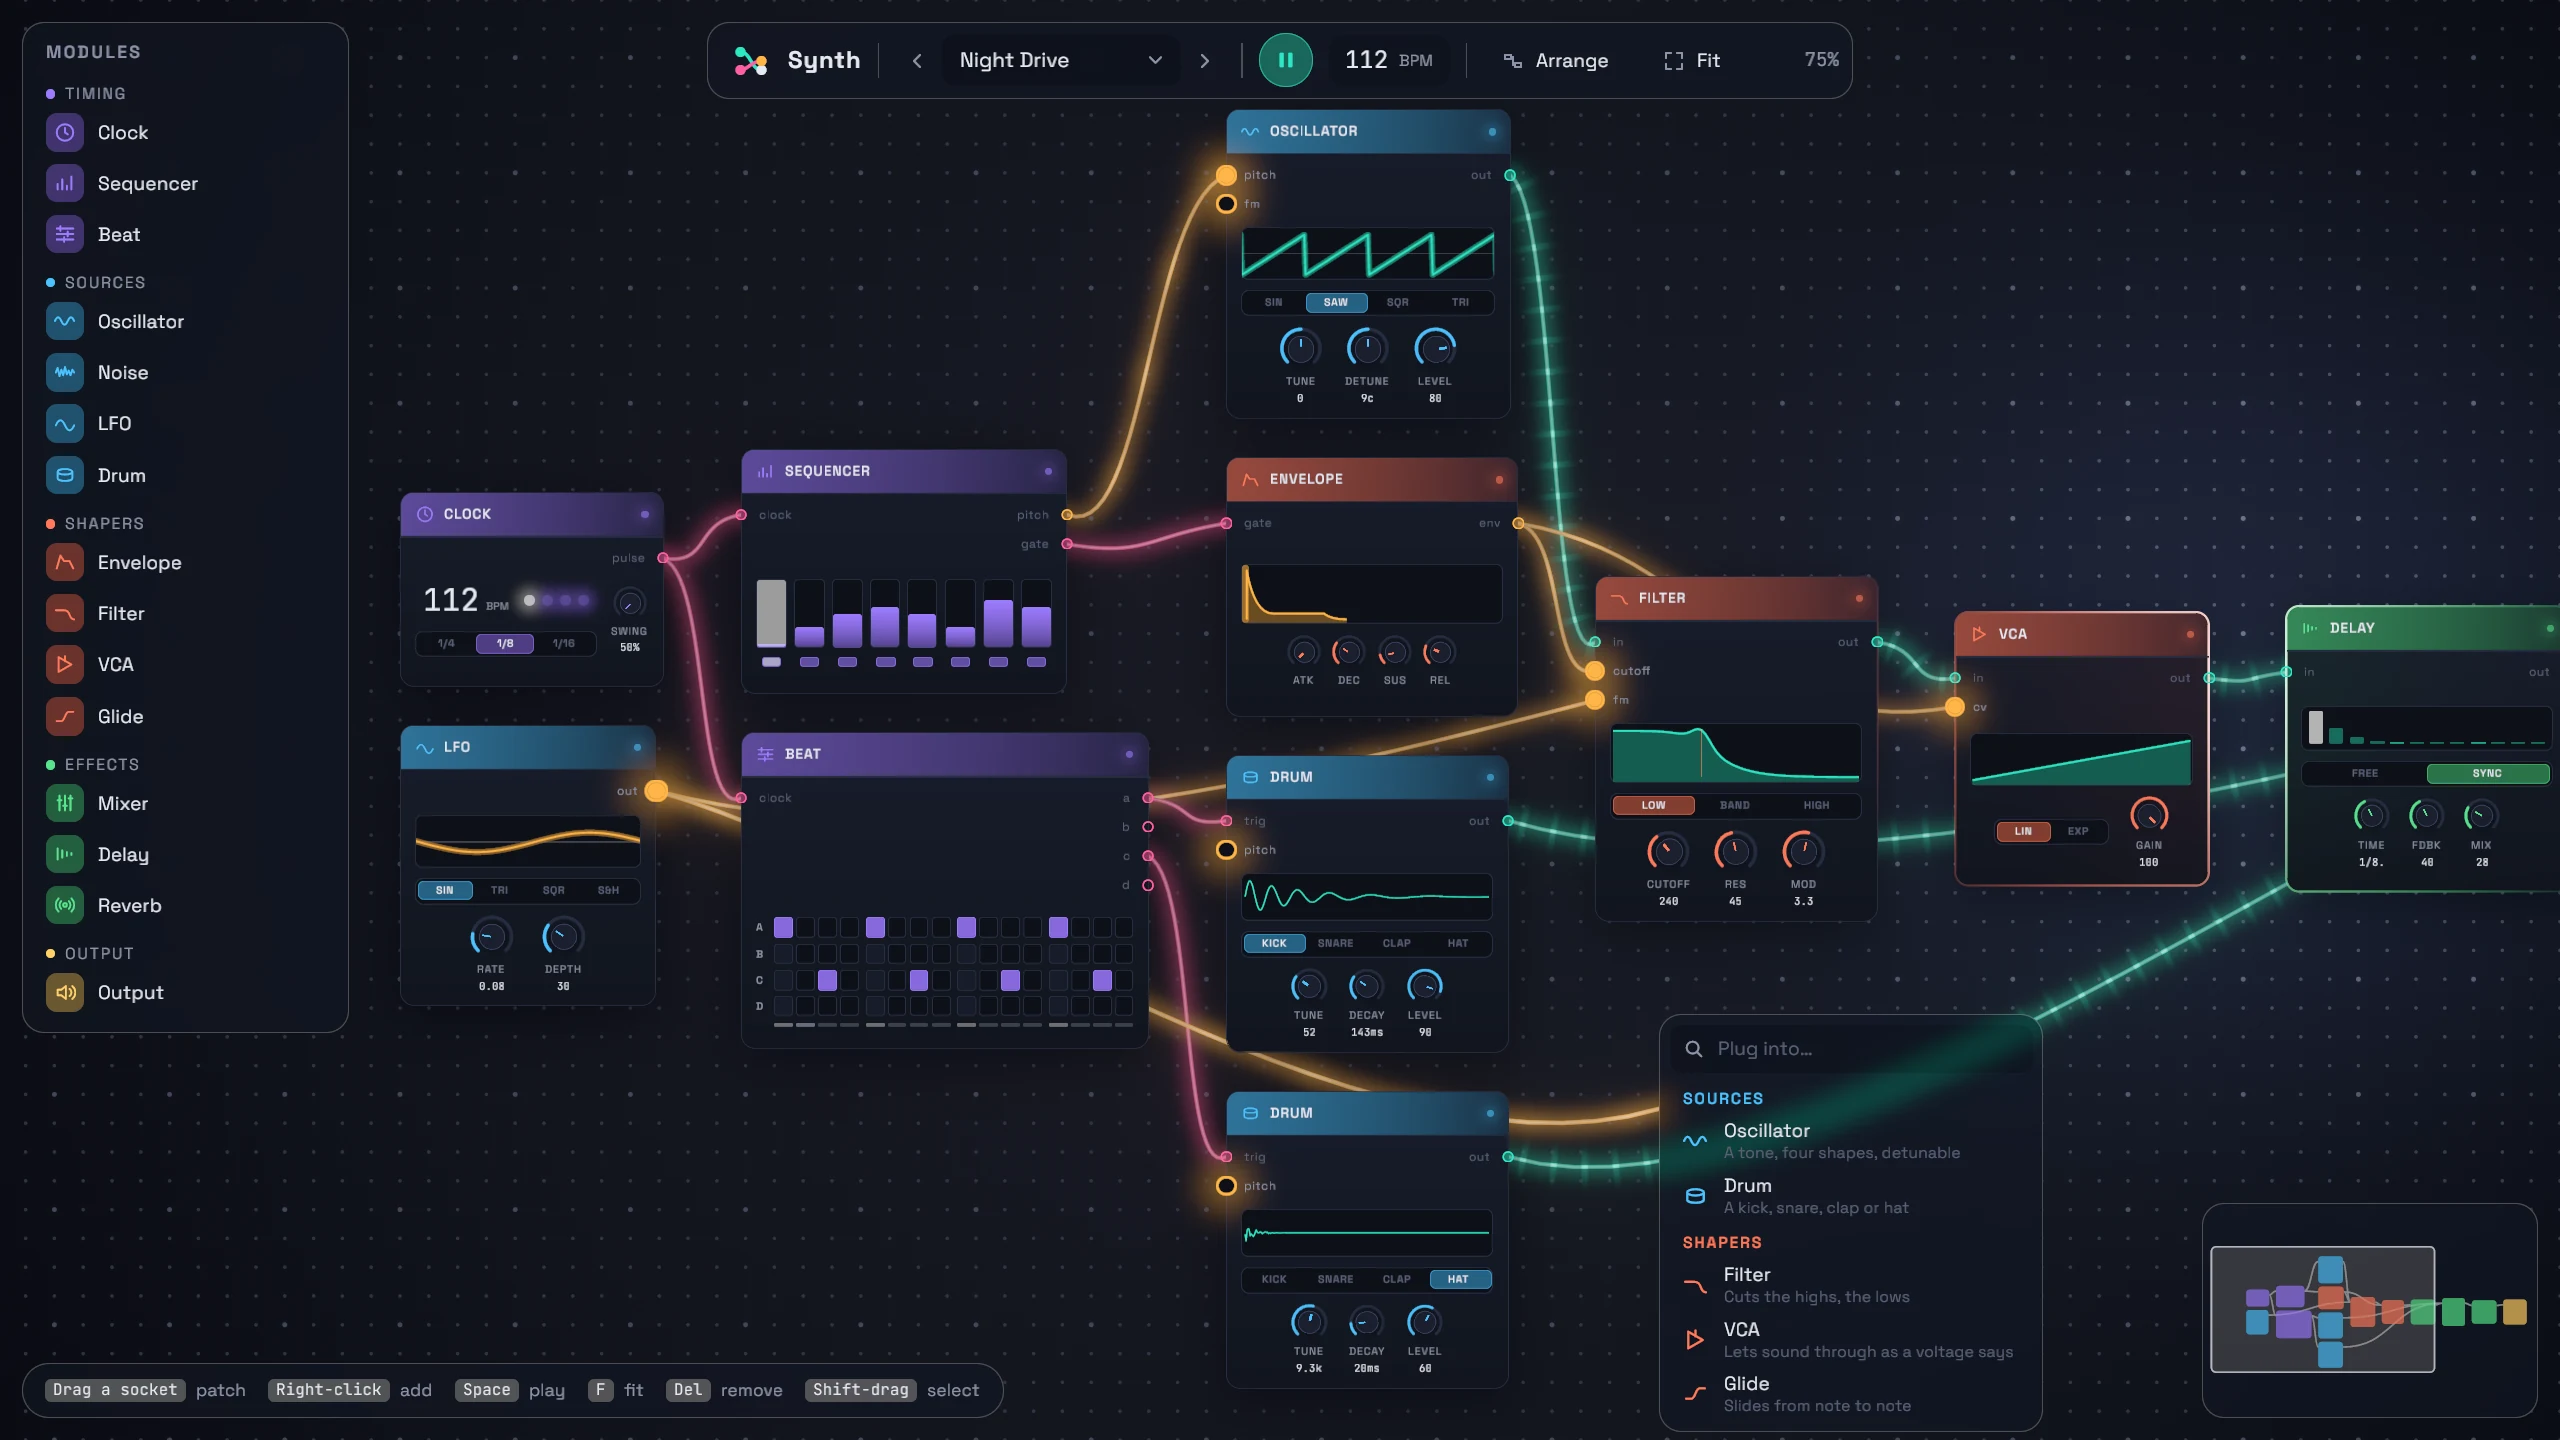
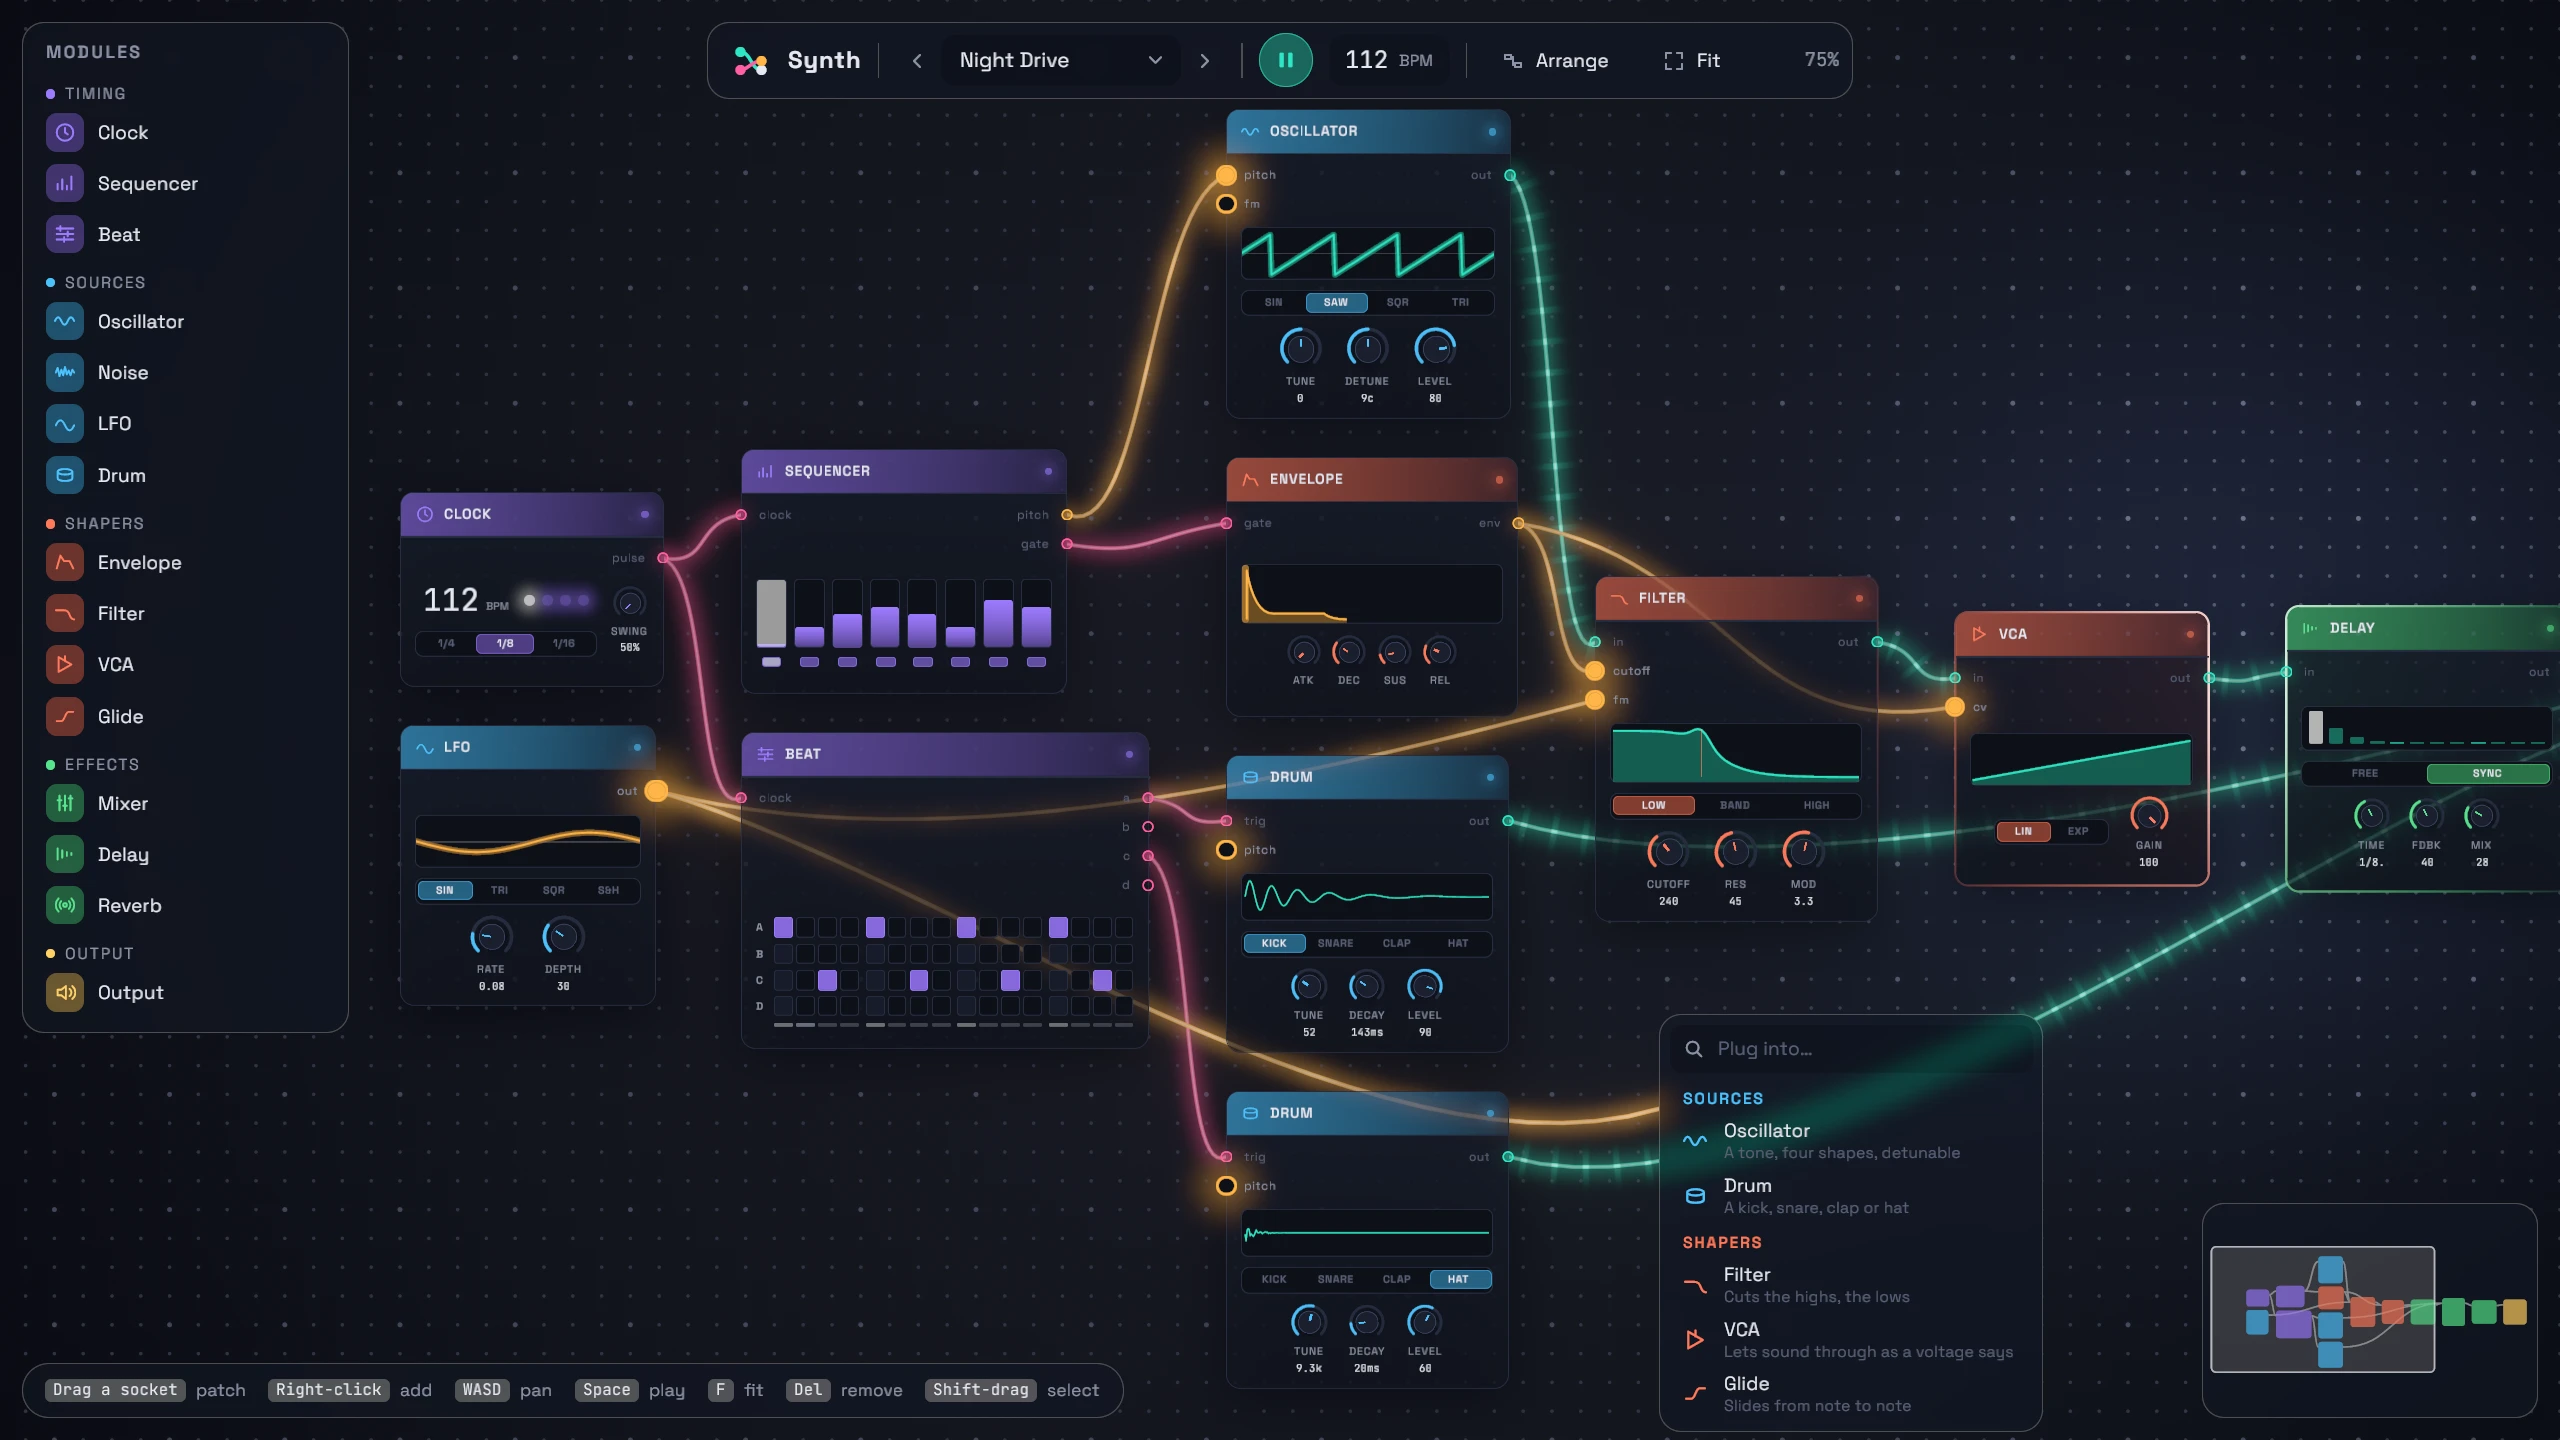
bump: 0.8.1

diff --git a/examples/synth/ui/src/App.tsx b/examples/synth/ui/src/App.tsx
@@ -16,7 +16,7 @@ import {
   reduce,
 } from "./graph/model";
 import { PRESETS, WIRE_DELAY, instantiate } from "./graph/presets";
-import { useDebug, useLatest, useWindowSize } from "./hooks";
+import { useDebug, useEvent, useLatest, useWindowSize } from "./hooks";
 import { LiveContext } from "./widgets";
 
 /** Where the graph shows: right of the palette, under the top bar. */
@@ -182,6 +182,13 @@ export function App() {
     // eslint-disable-next-line react-hooks/exhaustive-deps
     [],
   );
+
+  // W A S D: Bevy reports what the held keys pan each frame (`view.rs`);
+  // a short glide smooths over frames the message lands late.
+  useEvent("view.pan", ({ x, y }) => {
+    if (menuOpen()) return;
+    setView((v) => ({ ...v, x: v.x + x, y: v.y + y, glide: 90 }));
+  });
 
   // `--shoot` verbs (see shoot.rs).
   useDebug("preset", ([i]) => load(Number(i)));

diff --git a/examples/synth/ui/src/bevy.ts b/examples/synth/ui/src/bevy.ts
@@ -156,6 +156,7 @@ export type Module = { id: string, kind: Kind,
  */
 params: { [key in string]?: number }, };
 export type OutlineParams = { width: number | string, color: string, softness: number | string, };
+export type PanView = { x: number, y: number, };
 export type PinchParams = { 
 /**
  * Pinch center, 0..1 across the node rect (0 = left edge).
@@ -293,6 +294,7 @@ export interface ReactEvents {
   keyDown: KeyDown;
   keyUp: KeyUp;
   resize: Resize;
+  "view.pan": PanView;
 }
 
 /** Every registered filter name and its params type, split by family.

diff --git a/examples/synth/ui/src/chrome/TopBar.tsx b/examples/synth/ui/src/chrome/TopBar.tsx
@@ -240,6 +240,7 @@ export function Hints() {
   const items: [string, string][] = [
     ["Drag a socket", "patch"],
     ["Right-click", "add"],
+    ["WASD", "pan"],
     ["Space", "play"],
     ["F", "fit"],
     ["Del", "remove"],

diff --git a/examples/synth/view.rs b/examples/synth/view.rs
@@ -11,7 +11,7 @@
 use bevy::prelude::*;
 use bevy::text::RemSize;
 use bevy::ui::Val2;
-use bevy_react::{ReactAppExt, ReactApplySet, ReactNodes, react_message};
+use bevy_react::{ReactAppExt, ReactApplySet, ReactEvents, ReactNodes, react_event, react_message};
 
 /// `RemSize` at zoom 1, logical px: the graph's lengths are written in rem
 /// of this (`REM` in `ui/src/theme.ts`).
@@ -32,6 +32,18 @@ pub struct SetView {
     /// How long the glide takes, ms; `0` snaps (a drag pans with the hand).
     pub glide: f32,
 }
+
+/// Bevy → React: W A S D held this frame pan the view by `(x, y)` window
+/// px. React owns the view, so it moves it; Bevy only reads the keys
+/// (`ButtonInput` lets go of them when the window loses focus).
+#[react_event(name = "view.pan")]
+pub struct PanView {
+    pub x: f32,
+    pub y: f32,
+}
+
+/// The keys' pan speed, window px per second at any zoom.
+const KEY_PAN: f32 = 900.0;
 
 #[derive(Clone, Copy, PartialEq, Debug)]
 pub struct Xf {
@@ -66,12 +78,38 @@ impl Plugin for ViewPlugin {
             })
             // Before layout reads the root's transform, after this frame's
             // ops mounted it.
-            .add_systems(Update, glide.after(ReactApplySet));
+            .add_systems(Update, (glide.after(ReactApplySet), key_pan));
     }
 }
 
 pub fn register_bindings(app: &mut App) {
-    app.add_react_handler(on_set);
+    app.add_react_handler(on_set).add_react_event::<PanView>();
+}
+
+/// The camera moves with the key — W shows what is above — so the graph
+/// moves against it. Off under a modifier: Ctrl+A, Ctrl+D and Shift+A are
+/// shortcuts.
+fn key_pan(time: Res<Time>, keys: Res<ButtonInput<KeyCode>>, events: ReactEvents) {
+    use KeyCode::*;
+    let modifiers = [
+        ShiftLeft,
+        ShiftRight,
+        ControlLeft,
+        ControlRight,
+        AltLeft,
+        AltRight,
+        SuperLeft,
+        SuperRight,
+    ];
+    if keys.any_pressed(modifiers) {
+        return;
+    }
+    let axis = |pos, neg| keys.pressed(pos) as i8 as f32 - keys.pressed(neg) as i8 as f32;
+    let dir = Vec2::new(axis(KeyA, KeyD), axis(KeyW, KeyS));
+    if dir != Vec2::ZERO {
+        let d = dir.normalize() * KEY_PAN * time.delta_secs();
+        events.send(&PanView { x: d.x, y: d.y });
+    }
 }
 
 fn on_set(set: On<SetView>, mut view: ResMut<View>, mut rem: ResMut<RemSize>) {

diff --git a/CHANGELOG.md b/CHANGELOG.md
@@ -5,12 +5,49 @@ and this project adheres to [Semantic Versioning](https://semver.org/spec/v2.0.0
 
 ## [Unreleased]
 
+## [0.8.1] - 2026-10-15
+
 ### Added
 
+- **Devtools Animations tab.** Lists the shared values with a running
+  driver (each driver stage's progress, the nodes bound to it) and every
+  style transition in flight. **pause** and the speed chips drive Bevy's
+  `Time<Virtual>`; while paused, a slider on each row scrubs that
+  animation. `DevtoolsConfig::pause_key` (F11) pauses from the keyboard.
+- **Rust drives shared values.** `SharedValues::set(id, value)` is public:
+  send a shared value's `x.id` to Rust and set it from your own clock.
+- **Animations of your own in the devtools** (Rust extensions): implement
+  `ext::AnimationRuns` on a component and register it with
+  `app.add_react_animation_runs::<C>()`. `Run`, `RunLength` and
+  `run_length` are public in `animations`.
 - **`examples/synth`**, a node graph editor for a modular synth you can
-  hear: ten modules played live on the audio thread, cables with spring
+  hear: fifteen modules played live on the audio thread, cables with spring
   physics and flowing signals drawn by a Bevy shader under the UI, pop-in
   and drag animations, an Add menu, a minimap, presets and a crisp zoom.
+  It also runs in the browser.
+
+### Changed
+
+- **A shared value lives as long as its component.** Unmounting the
+  component that called `useSharedValue` frees the value and stops its
+  driver; the completion callback fires with `false`. It used to stay in
+  Bevy until a full reload.
+- **The wheel stops at pointer-blocking nodes.** A node with
+  `focusPolicy: "block"` (the `<button>` default) passes the wheel only to
+  its ancestors, like a click: a button in a scrolled list still scrolls
+  it, one lying over another container doesn't.
+- **Devtools panel.** Pick mode keeps its click from the app (nothing is
+  pressed, clicked or focused). The panel owns the wheel and hover over it,
+  and `PointerCapture` reports the pointer as the UI's there. Icons replace
+  the letter buttons; a narrow panel shows only the active tab's label.
+- **Performance.** Unchanged from 0.8.0: the table-ops benchmark is within
+  noise.
+
+### Fixed
+
+- The devtools' **push** moved the app aside without telling it:
+  `window.size` and the `resize` event now report the width left beside
+  the docked panel, so the app lays out in it.
 
 ## [0.8.0] - 2026-10-12
 
@@ -483,7 +520,8 @@ No behavior change, but worth knowing when reading or patching the crate:
 
 Last release before this changelog was introduced.
 
-[Unreleased]: https://github.com/tulustul/bevy-react/compare/v0.8.0...HEAD
+[Unreleased]: https://github.com/tulustul/bevy-react/compare/v0.8.1...HEAD
+[0.8.1]: https://github.com/tulustul/bevy-react/compare/v0.8.0...v0.8.1
 [0.8.0]: https://github.com/tulustul/bevy-react/compare/v0.7.0...v0.8.0
 [0.7.0]: https://github.com/tulustul/bevy-react/compare/v0.6.0...v0.7.0
 [0.6.0]: https://github.com/tulustul/bevy-react/compare/v0.5.1...v0.6.0

diff --git a/examples/synth/README.md b/examples/synth/README.md
@@ -37,9 +37,9 @@ intact.
   back in); drag the tempo sideways. Turn the knobs, flip the tabs, drag the
   sequencer's steps and the mixer's faders, click a step's light to mute
   it, click the beat's pads to change the groove.
-- **Navigate**: drag empty space to pan, the wheel zooms at the pointer, F
-  fits the patch, L (or Arrange) lays it out left to right, and the minimap
-  flies the view.
+- **Navigate**: drag empty space or hold W A S D to pan, the wheel zooms at
+  the pointer, F fits the patch, L (or Arrange) lays it out left to right,
+  and the minimap flies the view.
 - **Presets** in the top bar (‹ and › step through them, the name opens
   the list), each at its own tempo:
   - Night Drive: a detuned saw arpeggio through a plucked filter, dotted

diff --git a/README.md b/README.md
@@ -97,7 +97,6 @@ the cables under the UI, following the sockets React lays out, keeps the
 text crisp at every zoom, and runs the synth on the audio thread.
 [Play it in your browser](https://tulustul.github.io/bevy-react/synth/).
 
-![](https://raw.githubusercontent.com/tulustul/bevy-react/main/screenshots/synth-patch.webp)
 ![](https://raw.githubusercontent.com/tulustul/bevy-react/main/screenshots/synth-plug.webp)
 
 ## Getting started

diff --git a/PUBLISHING.md b/PUBLISHING.md
@@ -28,9 +28,6 @@ cargo run --release -p demos
 
 npm run build:prod -w minimal
 cargo run --release -p minimal
-
-npm run build:prod -w synth
-cargo run --release -p synth
 ```
 
 ### 4. Verify the web build works
